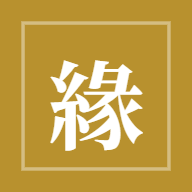
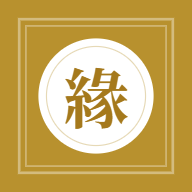
첫 페이지(랜딩) 추가 + 앱 아이콘 개선 + SW network-first
- 신규 사용자 흐름: 첫페이지 → 사주 입력 → 메인
- 앱 아이콘: 緣 로또볼 디자인으로 개선
- 서비스워커 v2: HTML network-first(업데이트 즉시 반영)+정적 stale-while-revalidate

diff --git a/index.html b/index.html
@@ -439,7 +439,7 @@ async function init(){
 async function afterAuth(){
   DEMO=!user;
   profile=await dbLoadProfile();
-  if(!profile){ renderProfileForm(); return; }
+  if(!profile){ renderLanding(); return; }
   buildSaju();
   const nums=await dbLoadNumbers();
   myNumbers={fate:nums.filter(x=>x.kind==='fate').map(x=>x.number),
@@ -474,6 +474,34 @@ async function sendMagic(){
   const {error}=await sb.auth.signInWithOtp({email,options:{emailRedirectTo:location.href}});
   if(error){toast('오류: '+error.message);return;}
   toast('메일함을 확인해 로그인 링크를 눌러주세요');
+}
+
+/* ============ 화면: 첫 페이지(랜딩) ============ */
+function landingFeature(ic,t,d){
+  return `<div class="row" style="gap:12px;align-items:flex-start">
+    <div style="width:36px;height:36px;border-radius:10px;background:#faf6ec;color:var(--gold);display:grid;place-items:center;font-size:18px;flex-shrink:0">${ic}</div>
+    <div><div style="font-weight:700;font-size:14px">${t}</div><div class="muted" style="font-size:12.5px;line-height:1.45">${d}</div></div>
+  </div>`;
+}
+function renderLanding(){
+  $('#root').innerHTML=`<div class="wrap" style="min-height:100vh;display:flex;flex-direction:column;justify-content:center;padding:28px 18px 40px">
+    <div style="text-align:center">
+      <div class="seal" style="width:80px;height:80px;border-radius:22px;font-size:46px;margin:0 auto 18px">緣</div>
+      <h1 style="font-size:34px;margin:0 0 4px">오행 로또</h1>
+      <p class="muted" style="font-size:14px;margin:0 0 26px">사주 재물운으로 보는 나의 로또</p>
+    </div>
+    <div class="card" style="margin:0">
+      <div style="display:flex;flex-direction:column;gap:15px">
+        ${landingFeature('▦','재물운 달력','내 사주로 목돈 들어올 날·좋은 시간대를 달력에 표시')}
+        ${landingFeature('◆','사주 번호 추천','용희신 오행 기반 5줄 추천 + 원하는 패턴 반영')}
+        ${landingFeature('◎','당첨 자동 확인','용지 QR 스캔·직접 입력을 공식 결과와 자동 대조')}
+        ${landingFeature('☰','수익·신호 분석','누적 수익과 내 신호(사주·직감·꿈) 적중 분석')}
+      </div>
+      <button class="btn wide" style="margin-top:22px;padding:15px;font-size:16px" onclick="renderProfileForm()">시작하기</button>
+      <p class="muted" style="font-size:11.5px;text-align:center;margin:10px 0 0">먼저 내 사주(생년월일시)를 한 번만 입력하면 돼요.</p>
+      <p class="disclaimer">번호·날짜 추천은 사주 참고용이며 당첨을 보장하지 않습니다.</p>
+    </div>
+  </div>`;
 }
 
 /* ============ 화면: 사주 입력 ============ */

diff --git a/sw.js b/sw.js
@@ -1,5 +1,6 @@
 // 오행 로또 서비스워커 — 앱 셸 오프라인 캐시
-const CACHE = 'ohaeng-lotto-v1';
+// HTML은 network-first(항상 최신, 오프라인 시 캐시), 그 외 same-origin은 stale-while-revalidate.
+const CACHE = 'ohaeng-lotto-v2';
 const CORE = [
   './', './index.html', './engine.browser.js', './jsQR.min.js',
   './manifest.json', './icon-192.png', './icon-512.png', './apple-touch-icon.png'
@@ -18,13 +19,26 @@ self.addEventListener('activate', e => {
 
 self.addEventListener('fetch', e => {
   const req = e.request;
-  if (req.method !== 'GET') return;                       // 저장은 통과
-  if (new URL(req.url).origin !== location.origin) return; // 결과/CDN 등 외부는 네트워크 그대로
-  e.respondWith(
-    caches.match(req).then(cached => cached || fetch(req).then(res => {
-      const copy = res.clone();
-      caches.open(CACHE).then(c => c.put(req, copy));
-      return res;
-    }).catch(() => caches.match('./index.html')))          // 오프라인 네비게이션 폴백
-  );
+  if (req.method !== 'GET') return;
+  if (new URL(req.url).origin !== location.origin) return; // 외부(결과/CDN)는 네트워크 그대로
+
+  const isHTML = req.mode === 'navigate' || (req.headers.get('accept') || '').includes('text/html');
+  if (isHTML) {
+    // network-first: 온라인이면 항상 최신 HTML, 실패 시 캐시
+    e.respondWith(
+      fetch(req).then(res => {
+        const copy = res.clone(); caches.open(CACHE).then(c => c.put(req, copy)); return res;
+      }).catch(() => caches.match(req).then(r => r || caches.match('./index.html')))
+    );
+  } else {
+    // stale-while-revalidate: 캐시 즉시 + 백그라운드 갱신
+    e.respondWith(
+      caches.match(req).then(cached => {
+        const net = fetch(req).then(res => {
+          const copy = res.clone(); caches.open(CACHE).then(c => c.put(req, copy)); return res;
+        }).catch(() => cached);
+        return cached || net;
+      })
+    );
+  }
 });
